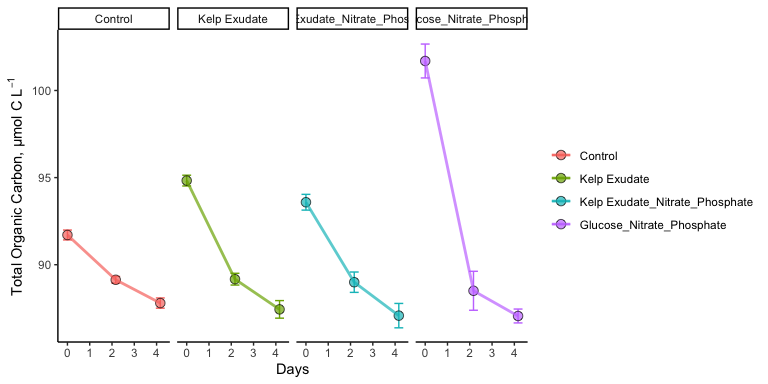
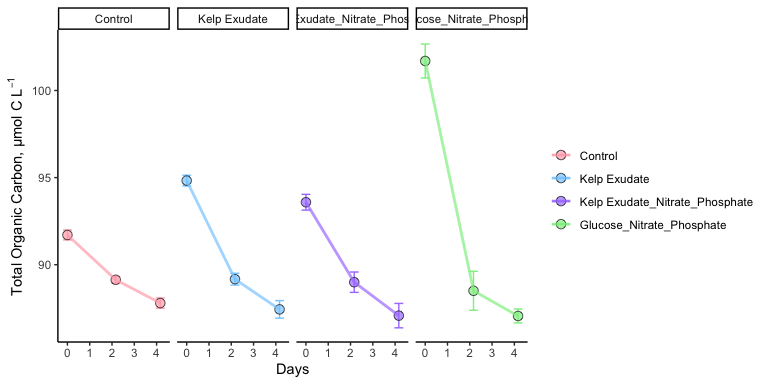
final

diff --git a/Scripts/211103_2021_dapi_toc_data_analysis_submission.md b/Scripts/211103_2021_dapi_toc_data_analysis_submission.md
@@ -755,8 +755,8 @@ toc %>%
   geom_errorbar(aes(ymin = Mean_uMC - Stdev_uMC, ymax = Mean_uMC + Stdev_uMC, color = factor(Treatment, levels = levels)), width = 0.4) +
   geom_point(aes(fill = factor(Treatment, levels = levels)), size = 3, shape = 21, alpha = 0.7 ) +
   geom_line(aes(color = factor(Treatment, levels = levels)), size = 1, alpha = 0.7 ) +
-  #scale_color_manual(values = custom.colors) +
-  #scale_fill_manual(values = custom.colors) +
+  scale_color_manual(values = custom.colors) +
+  scale_fill_manual(values = custom.colors) +
   labs(x = "Days", y = expression(paste("Total Organic Carbon, µmol C L"^-1))) +
   theme_classic() +
   #comment out the facet_wrap if you want to view all the treatments on top of eachother 
